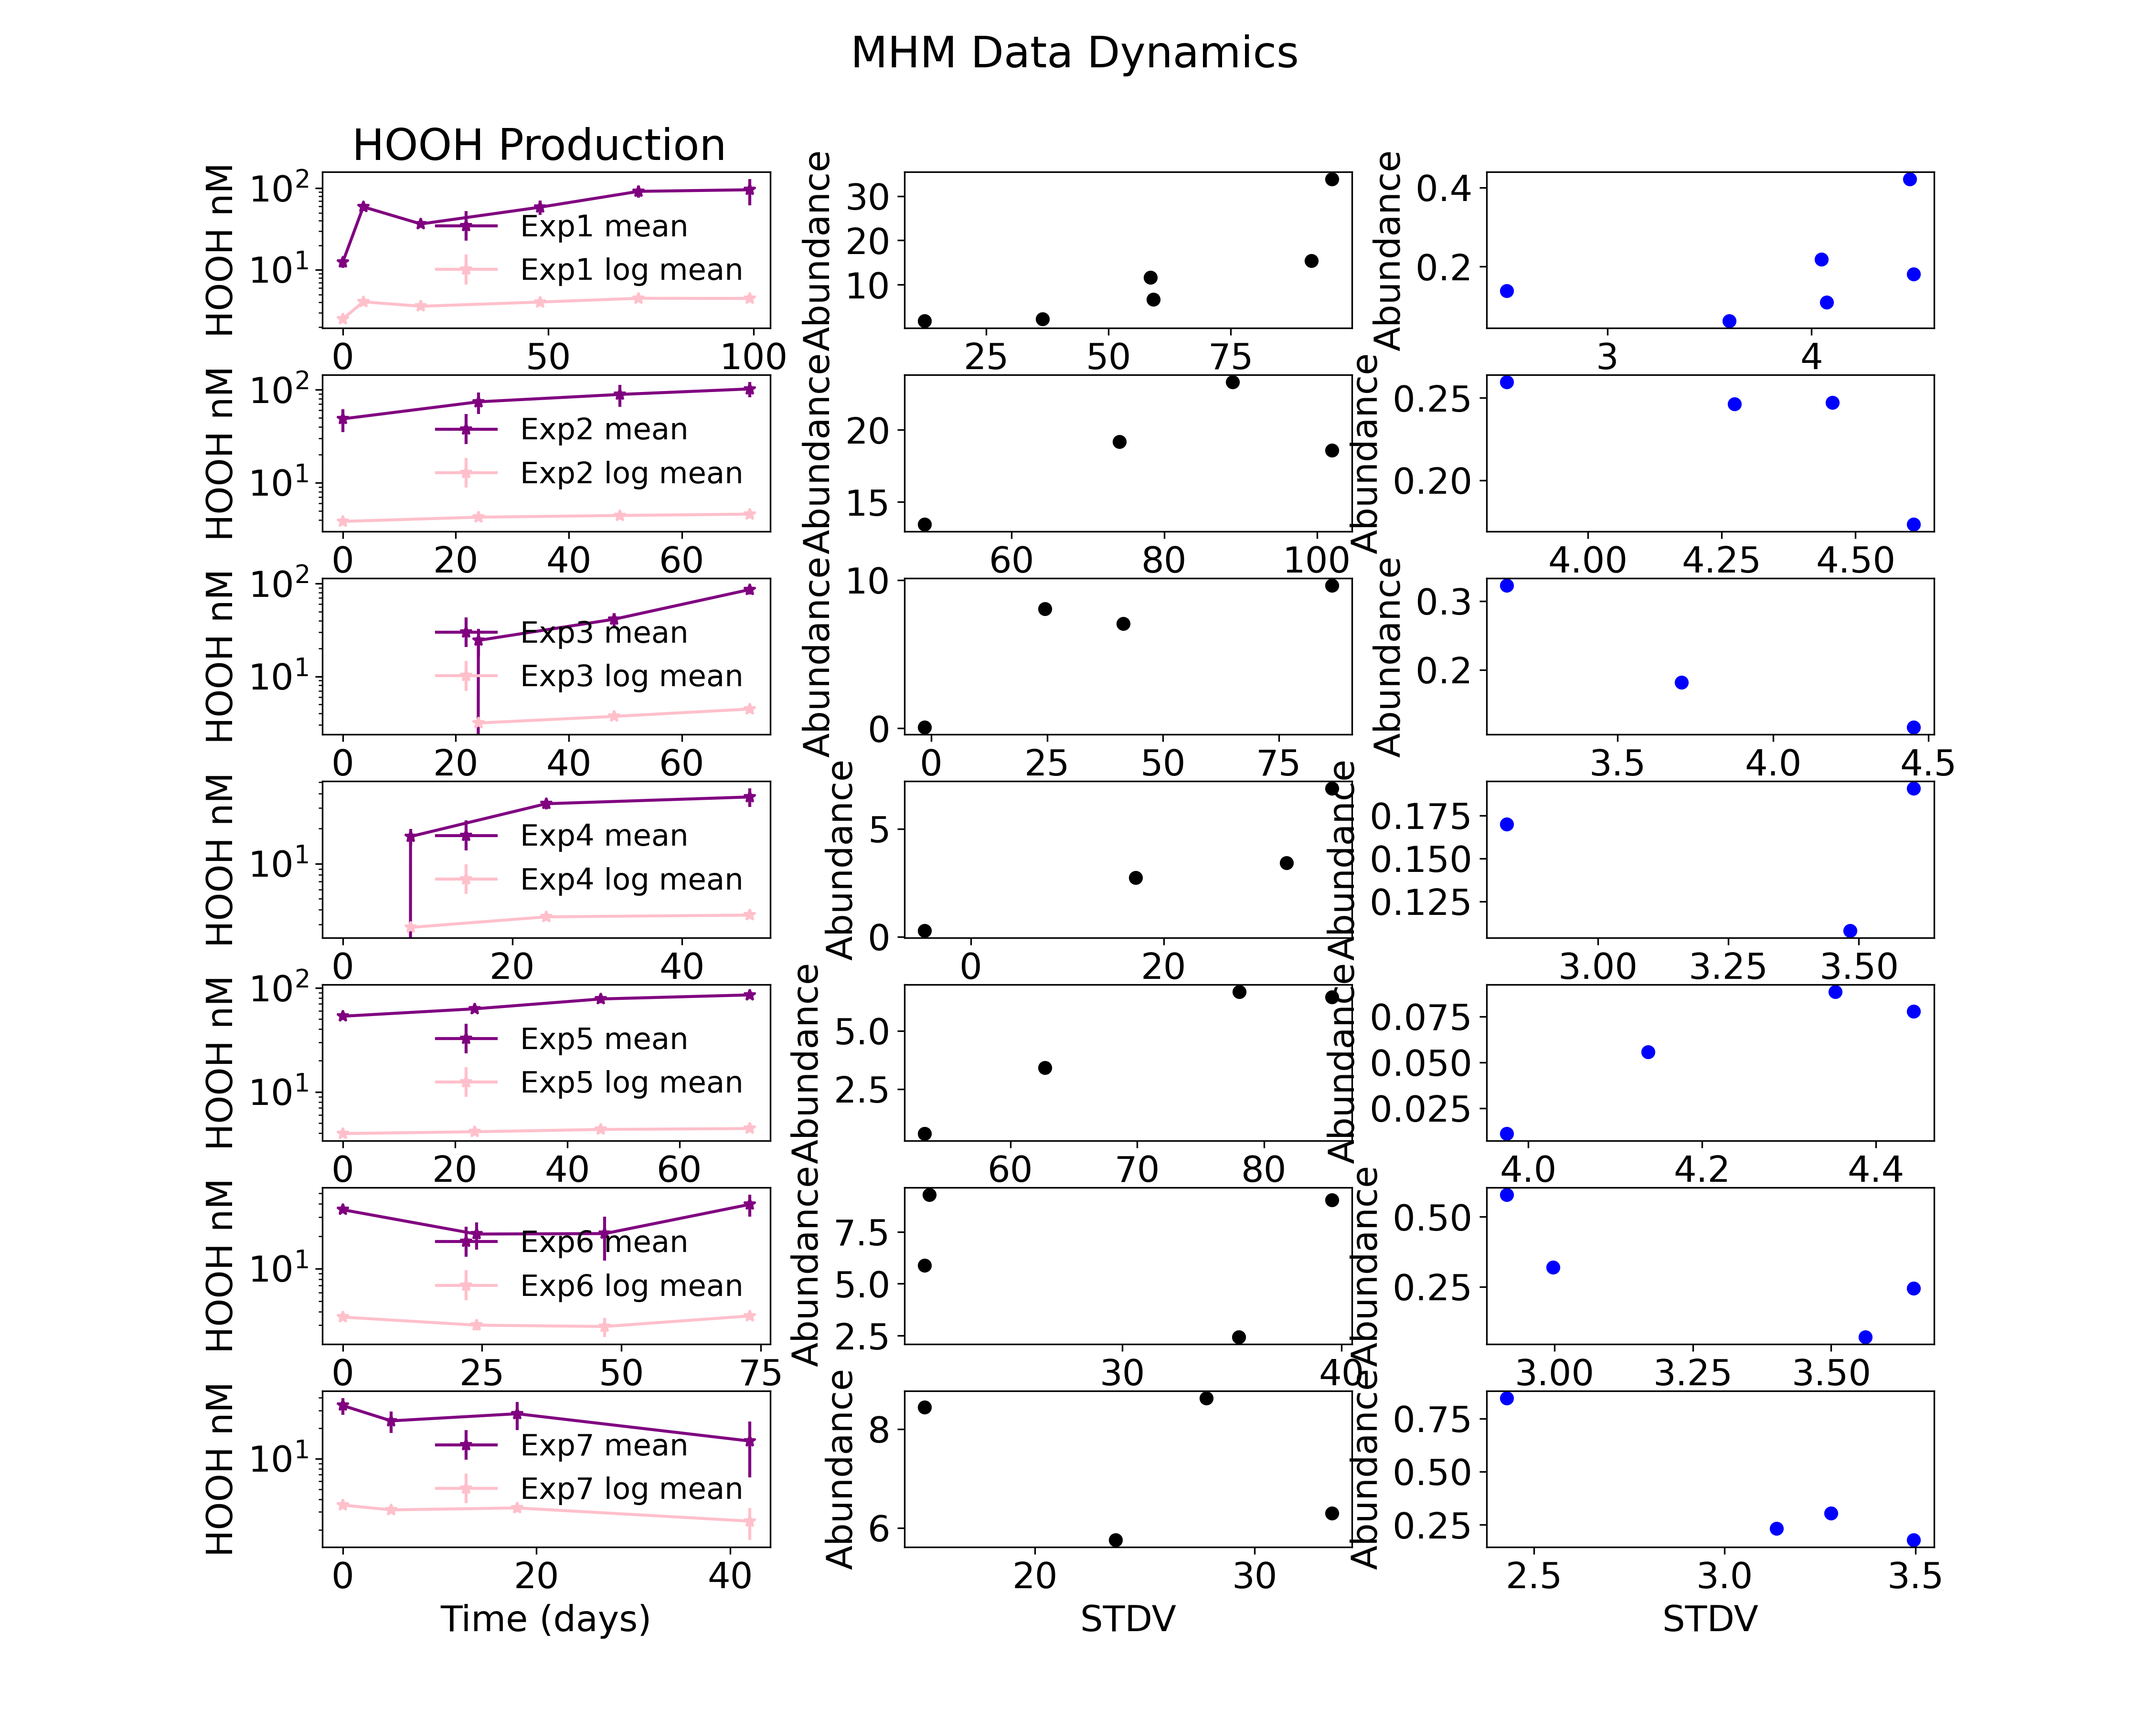
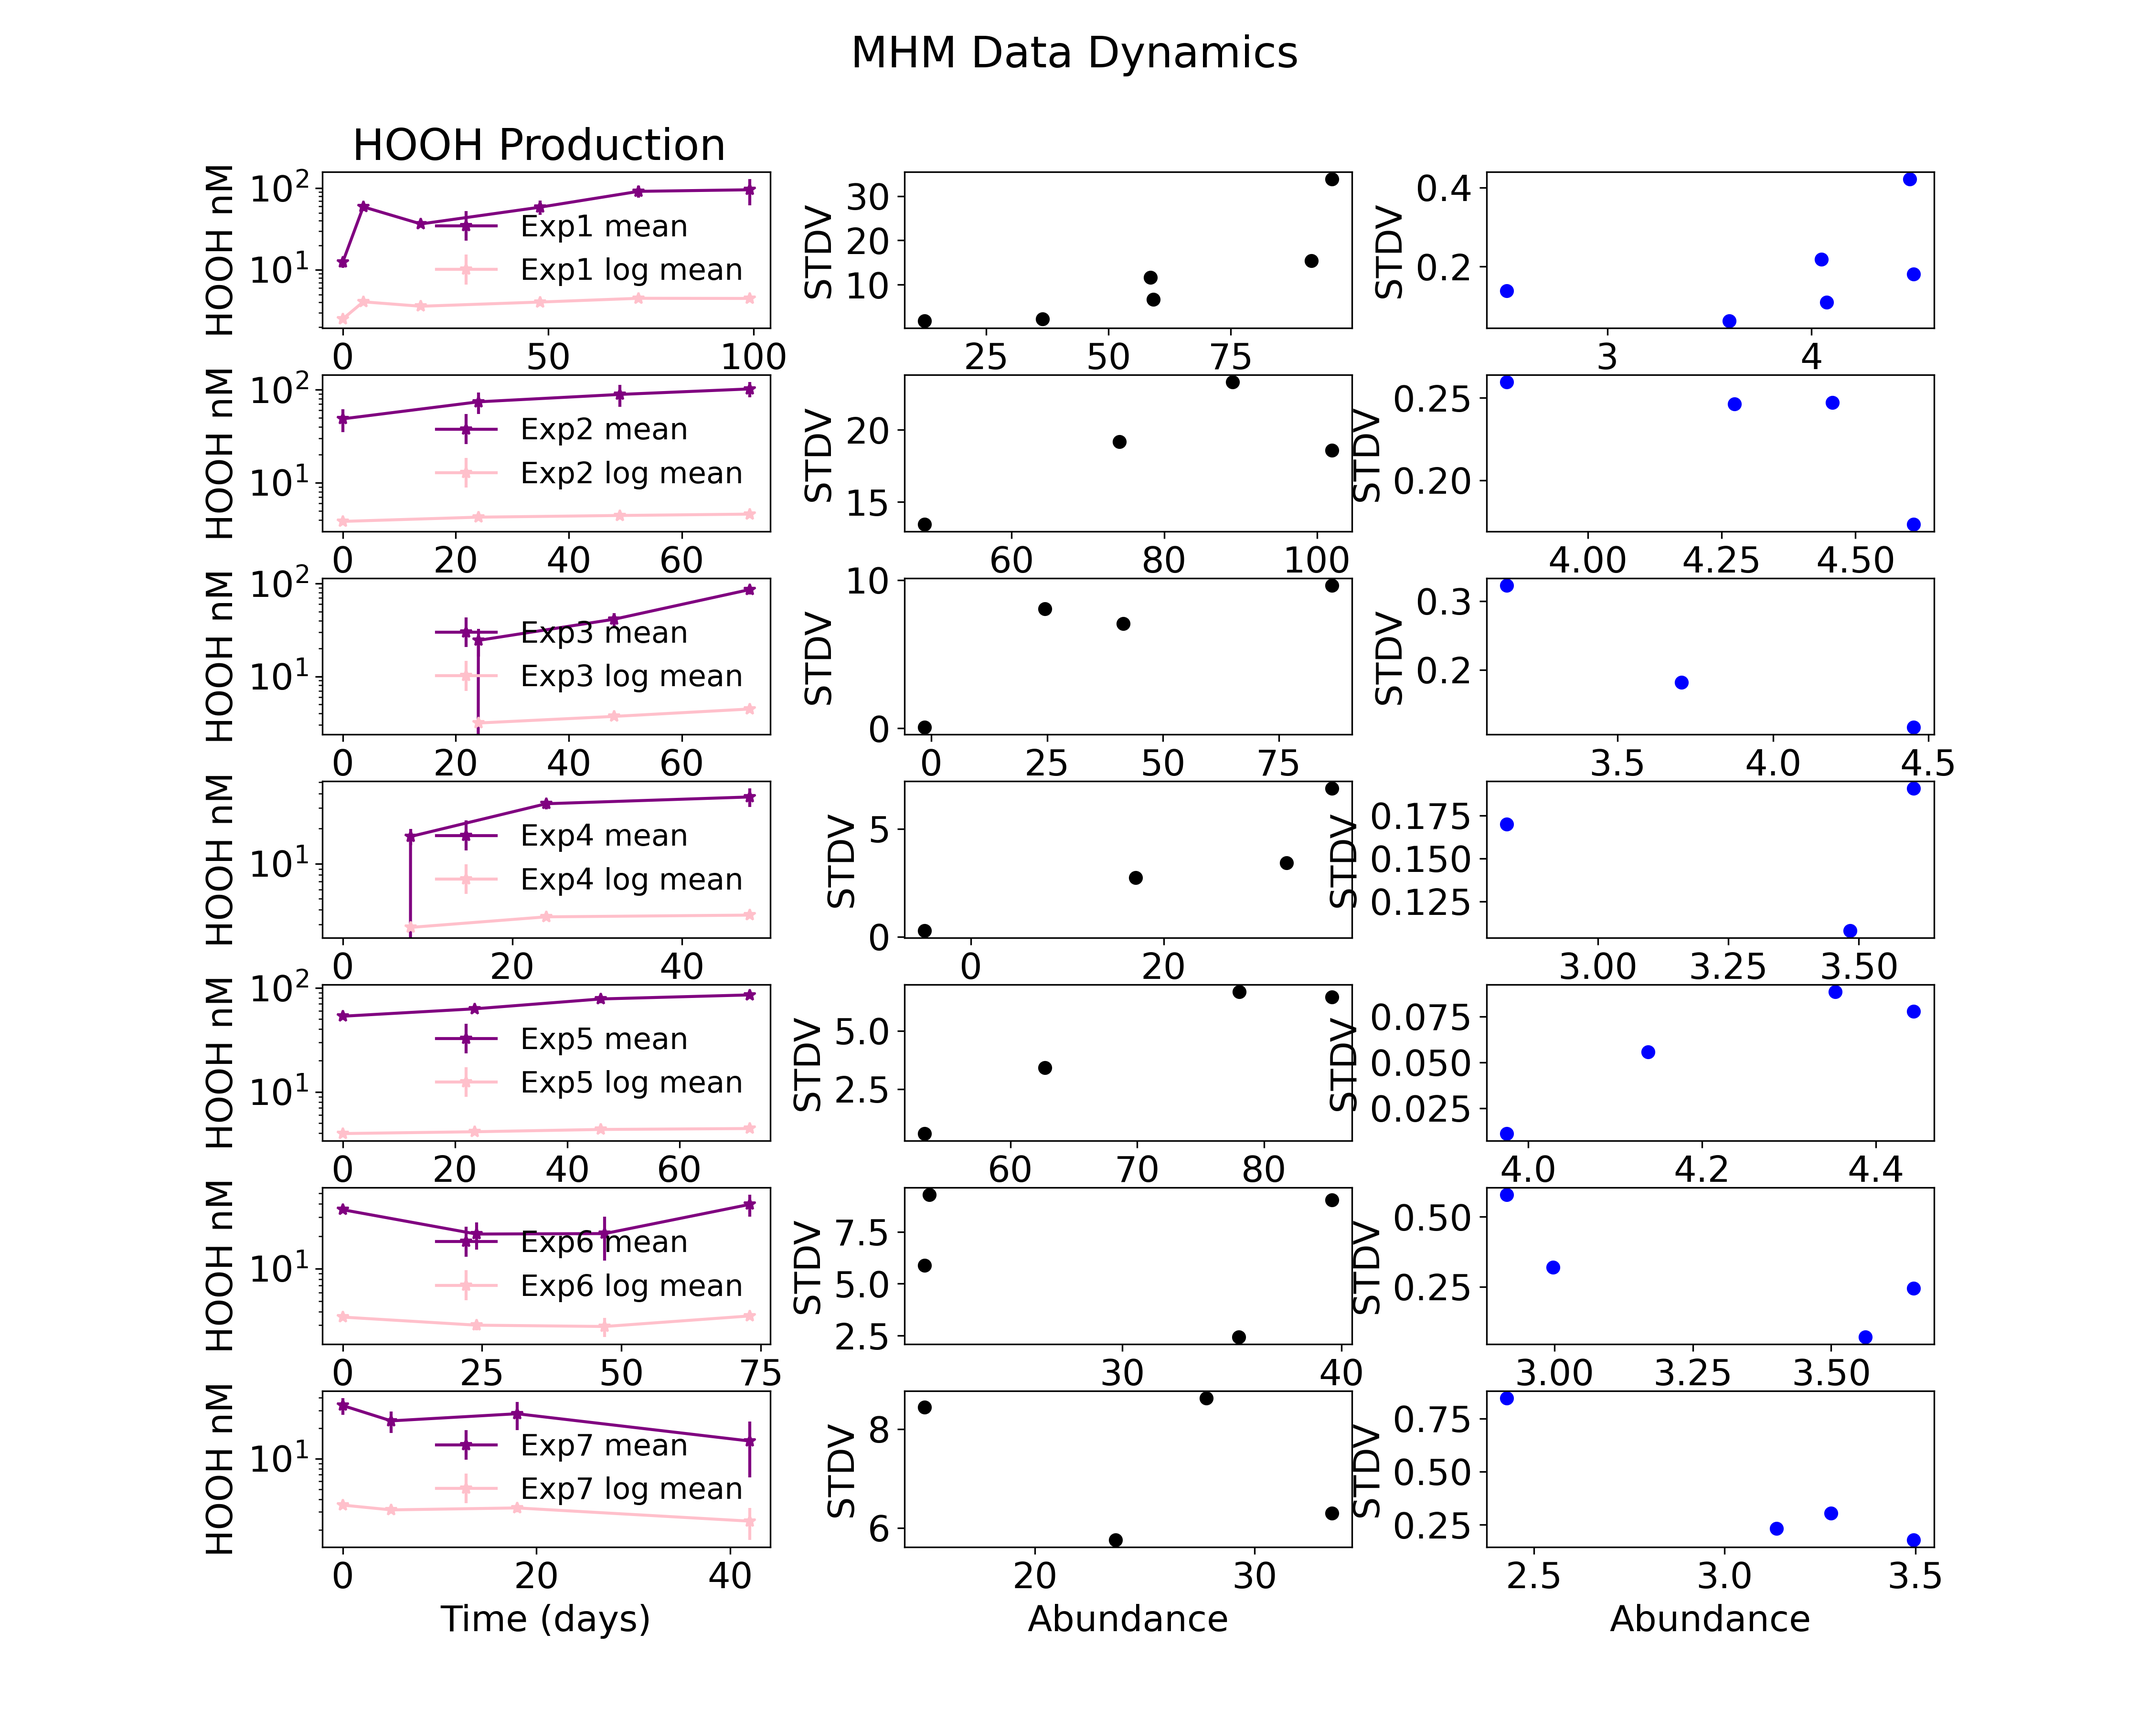
amp viz file

diff --git a/src/viz_AMP.py b/src/viz_AMP.py
@@ -1,6 +1,6 @@
 '''
 
-name:   vis_MHMpy 
+name:   vis_AMPpy 
 
 location: '/Users/dkm/Documents/Talmy_research/Zinser_lab/Projects/Monocultures/src'
 
@@ -34,7 +34,7 @@ plt.rcParams['legend.fontsize'] = 'small'
 #####################################################
 
 #main df read in 
-df_all = pd.read_csv("../data/MHM_blank.csv",header=0)
+df_all = pd.read_csv("../data/AMPMedia.csv",header=0)
 
 
 #format empty columns and column names 
@@ -64,7 +64,7 @@ nexps = exps.shape[0]   #making numnber list for exp
 #####################################################
 #####################################################
 fig1,ax1 = plt.subplots(nexps,3,figsize=[15,12]) #plot creation and config 
-fig1.suptitle('MHM Data Dynamics') #full title config
+fig1.suptitle('AMP Data Dynamics') #full title config
 ax1[0,0].set_title('HOOH Production ')
 
 
@@ -104,7 +104,7 @@ for a in ax1[:,2]:
 plt.show()
 
 
-fig1.savefig('../figures/MHM_data_dynamics.png')
+fig1.savefig('../figures/AMP_data_dynamics.png')
 
 
 

diff --git a/src/viz_MHMplus.py b/src/viz_MHMplus.py
@@ -92,12 +92,12 @@ for a in ax1[:,0]:
 
 # ylabels
 for a in ax1[:,1]:
-    a.set_ylabel('Abundance')
-    a.set_xlabel('STDV')
+    a.set_ylabel('STDV')
+    a.set_xlabel('Abundance')
 
 for a in ax1[:,2]:
-    a.set_ylabel('Abundance')
-    a.set_xlabel('STDV')
+    a.set_ylabel('STDV')
+    a.set_xlabel('Abundance')
 
 
 
